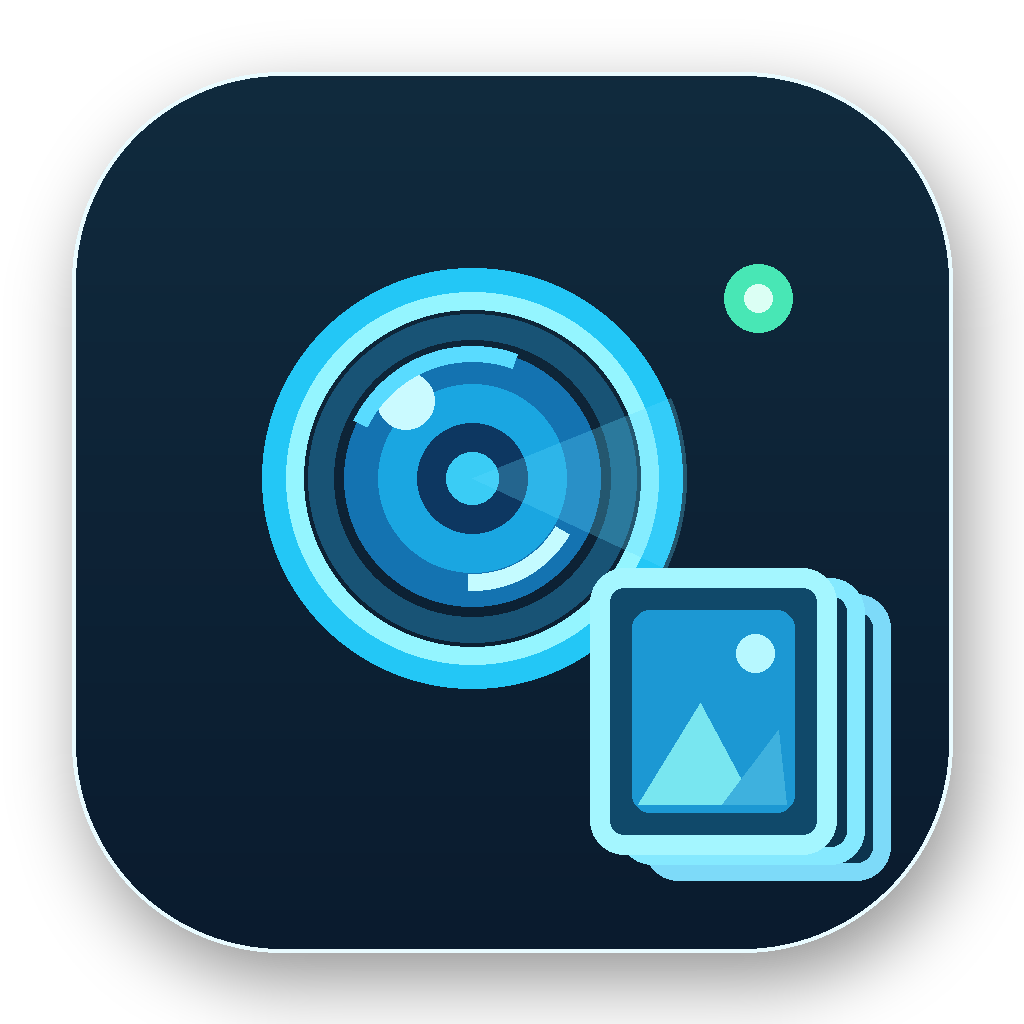
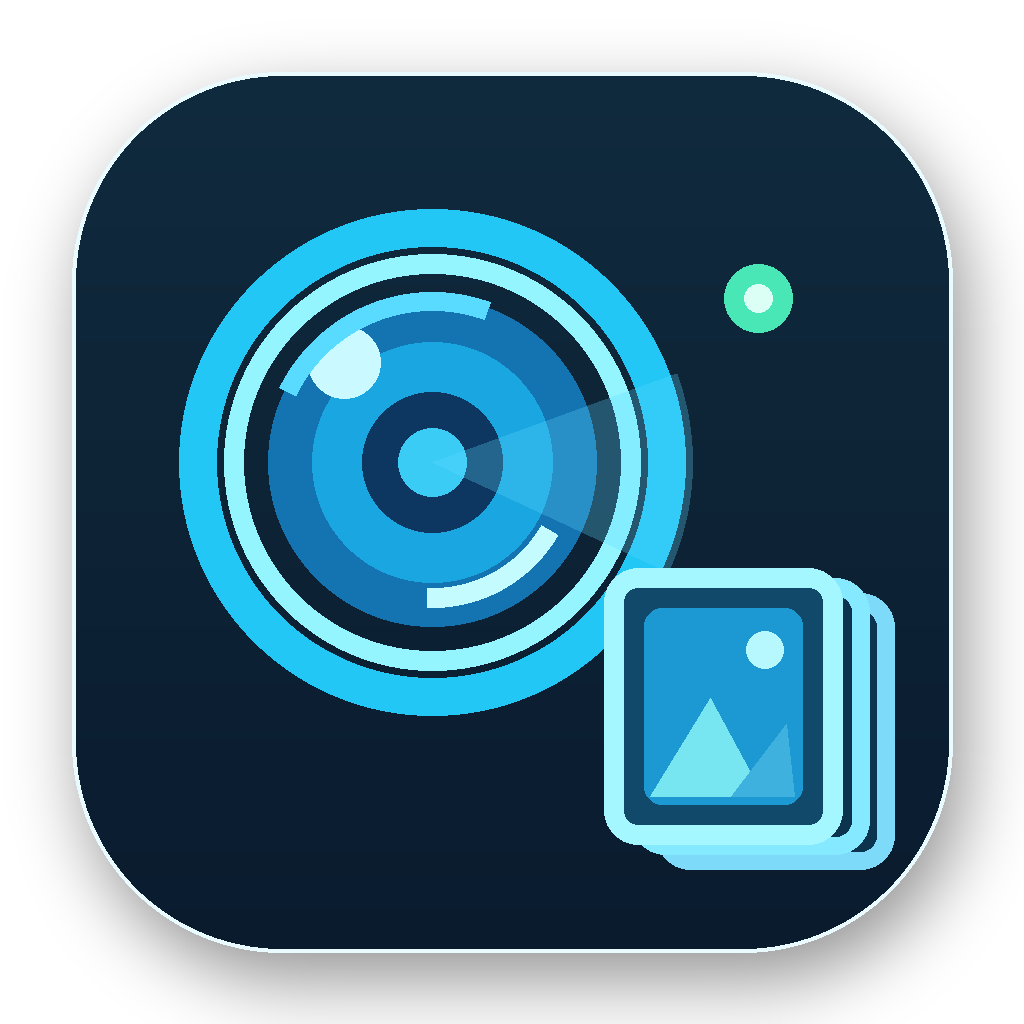
Refactor side pane views and update build workflow

Changed region(s): [[0.1562, 0.1875, 0.875, 0.875]]

diff --git a/main.py b/main.py
@@ -188,10 +188,15 @@ class App(ctk.CTk):
         self.stop_requested = False
         self.toaster = ToastNotifier() if ToastNotifier is not None else None
         self.logs_visible = True
+        self.side_pane_visible = True
+        self.active_side_view = "logs"
         self.last_check_text = tk.StringVar(value="Last check: Never")
         self.new_images_text = tk.StringVar(value="New images: 0")
         self.status_text = tk.StringVar(value="Status: Idle")
         self.save_location_text = tk.StringVar(value=f"Save folder: {self._display_download_dir()}")
+        self.settings_path_var = tk.StringVar(value=self._display_download_dir())
+        self.settings_notifications_var = tk.BooleanVar(value=self.state_manager.get_setting("notifications_enabled") is not False)
+        self.settings_feedback_text = tk.StringVar(value="")
 
         self._setup_layout()
         
@@ -237,14 +242,21 @@ class App(ctk.CTk):
         self.keywords_view = KeywordsFrame(self.main_container, self.state_manager, self.check_single_keyword, self.stop_check)
         self.keywords_view.grid(row=0, column=0, sticky="nsew")
 
-        self.log_frame = ctk.CTkFrame(self.main_container, width=300, corner_radius=0)
-        self.log_frame.grid(row=0, column=1, sticky="nsew")
-        self.log_frame.grid_columnconfigure(0, weight=1)
-        self.log_frame.grid_rowconfigure(1, weight=1)
+        self.side_pane = ctk.CTkFrame(self.main_container, width=320, corner_radius=0)
+        self.side_pane.grid(row=0, column=1, sticky="nsew")
+        self.side_pane.grid_columnconfigure(0, weight=1)
+        self.side_pane.grid_rowconfigure(0, weight=1)
         
-        ctk.CTkLabel(self.log_frame, text="Application Logs", anchor="w", font=("Arial", 10, "bold")).grid(row=0, column=0, sticky="w", padx=5, pady=(10, 2))
-        self.log_textbox = ctk.CTkTextbox(self.log_frame, font=("Consolas", 10), width=280)
-        self.log_textbox.grid(row=1, column=0, sticky="nsew", padx=5, pady=5)
+        self.log_view = ctk.CTkFrame(self.side_pane, corner_radius=0)
+        self.log_view.grid_columnconfigure(0, weight=1)
+        self.log_view.grid_rowconfigure(1, weight=1)
+        ctk.CTkLabel(self.log_view, text="Application Logs", anchor="w", font=("Arial", 10, "bold")).grid(row=0, column=0, sticky="w", padx=10, pady=(10, 2))
+        self.log_textbox = ctk.CTkTextbox(self.log_view, font=("Consolas", 10), width=300)
+        self.log_textbox.grid(row=1, column=0, sticky="nsew", padx=10, pady=5)
+
+        self.settings_view = self._build_settings_view(self.side_pane)
+        self.about_view = self._build_about_view(self.side_pane)
+        self._show_side_view("logs")
 
         self.status_bar = ctk.CTkFrame(self, corner_radius=0)
         self.status_bar.grid(row=2, column=0, sticky="ew")
@@ -433,99 +445,117 @@ class App(ctk.CTk):
         except Exception:
             return None
 
+    def _build_settings_view(self, parent):
+        frame = ctk.CTkFrame(parent, corner_radius=0)
+        frame.grid_columnconfigure(0, weight=1)
+
+        ctk.CTkLabel(frame, text="Settings", font=("Arial", 18, "bold")).grid(row=0, column=0, padx=16, pady=(18, 10), sticky="w")
+        ctk.CTkLabel(frame, text="Download location", anchor="w").grid(row=1, column=0, padx=16, pady=(8, 4), sticky="w")
+
+        path_entry = ctk.CTkEntry(frame, textvariable=self.settings_path_var)
+        path_entry.grid(row=2, column=0, padx=16, pady=(0, 8), sticky="ew")
+
+        path_buttons = ctk.CTkFrame(frame, fg_color="transparent")
+        path_buttons.grid(row=3, column=0, padx=16, pady=(0, 12), sticky="ew")
+        path_buttons.grid_columnconfigure((0, 1), weight=1)
+        ctk.CTkButton(path_buttons, text="Browse...", command=self.browse_download_folder).grid(row=0, column=0, padx=(0, 6), sticky="ew")
+        ctk.CTkButton(path_buttons, text="Open Folder", command=lambda: self.open_download_folder(self.settings_path_var.get())).grid(row=0, column=1, padx=(6, 0), sticky="ew")
+
+        ctk.CTkCheckBox(
+            frame,
+            text="Show system notifications",
+            variable=self.settings_notifications_var,
+        ).grid(row=4, column=0, padx=16, pady=(4, 12), sticky="w")
+
+        ctk.CTkLabel(frame, textvariable=self.settings_feedback_text, anchor="w", text_color="gray", wraplength=280).grid(row=5, column=0, padx=16, pady=(0, 12), sticky="ew")
+
+        action_buttons = ctk.CTkFrame(frame, fg_color="transparent")
+        action_buttons.grid(row=6, column=0, padx=16, pady=(4, 18), sticky="ew")
+        action_buttons.grid_columnconfigure((0, 1), weight=1)
+        ctk.CTkButton(action_buttons, text="Reset", command=self.reset_settings_defaults).grid(row=0, column=0, padx=(0, 6), sticky="ew")
+        ctk.CTkButton(action_buttons, text="Save", command=self.save_settings).grid(row=0, column=1, padx=(6, 0), sticky="ew")
+
+        return frame
+
+    def _build_about_view(self, parent):
+        frame = ctk.CTkFrame(parent, corner_radius=0)
+        frame.grid_columnconfigure(0, weight=1)
+
+        ctk.CTkLabel(frame, text="About", font=("Arial", 18, "bold")).grid(row=0, column=0, padx=16, pady=(18, 12), sticky="w")
+        ctk.CTkLabel(frame, text=APP_NAME, font=("Arial", 16, "bold")).grid(row=1, column=0, padx=16, pady=(4, 2), sticky="w")
+        ctk.CTkLabel(frame, text=f"Version {APP_VERSION}", text_color="gray").grid(row=2, column=0, padx=16, pady=(0, 12), sticky="w")
+        ctk.CTkLabel(frame, text=APP_DESCRIPTION, wraplength=280, justify="left").grid(row=3, column=0, padx=16, pady=4, sticky="w")
+        ctk.CTkLabel(frame, text="License: MIT", text_color="gray").grid(row=4, column=0, padx=16, pady=(14, 4), sticky="w")
+        ctk.CTkLabel(frame, text=f"Python {sys.version.split()[0]}", text_color="gray").grid(row=5, column=0, padx=16, pady=4, sticky="w")
+
+        return frame
+
+    def _show_side_view(self, view_name):
+        for view in (self.log_view, self.settings_view, self.about_view):
+            view.grid_remove()
+
+        views = {
+            "logs": self.log_view,
+            "settings": self.settings_view,
+            "about": self.about_view,
+        }
+        views[view_name].grid(row=0, column=0, sticky="nsew")
+        self.active_side_view = view_name
+        self.side_pane.grid()
+        self.main_container.grid_columnconfigure(1, weight=1)
+        self.side_pane_visible = True
+        self.logs_visible = view_name == "logs"
+        self.toolbar_logs_btn.configure(text="Hide Logs" if view_name == "logs" else "Show Logs")
+
+    def browse_download_folder(self):
+        chosen = filedialog.askdirectory(
+            parent=self,
+            initialdir=self._absolute_download_dir(self.settings_path_var.get()),
+        )
+        if chosen:
+            self.settings_path_var.set(chosen)
+            self.settings_feedback_text.set("")
+
+    def reset_settings_defaults(self):
+        self.settings_path_var.set(DEFAULT_DOWNLOAD_DIR)
+        self.settings_feedback_text.set("Default download folder selected.")
+
+    def save_settings(self):
+        selected = self.settings_path_var.get().strip() or DEFAULT_DOWNLOAD_DIR
+        try:
+            os.makedirs(self._absolute_download_dir(selected), exist_ok=True)
+        except Exception as e:
+            self.settings_feedback_text.set(f"Could not use this folder: {e}")
+            return
+
+        self.state_manager.set_setting("download_dir", selected)
+        self.state_manager.set_setting("notifications_enabled", bool(self.settings_notifications_var.get()))
+        self._refresh_save_location()
+        self.settings_feedback_text.set("Settings saved.")
+
     def toggle_logs(self):
-        if self.logs_visible:
-            self.log_frame.grid_remove()
+        if self.side_pane_visible and self.active_side_view == "logs":
+            self.side_pane.grid_remove()
             self.main_container.grid_columnconfigure(1, weight=0)
             self.toolbar_logs_btn.configure(text="Show Logs")
+            self.side_pane_visible = False
             self.logs_visible = False
         else:
-            self.log_frame.grid()
+            self._show_side_view("logs")
+            self.side_pane.grid()
             self.main_container.grid_columnconfigure(1, weight=1)
             self.toolbar_logs_btn.configure(text="Hide Logs")
+            self.side_pane_visible = True
             self.logs_visible = True
 
     def show_settings(self):
-        dialog = ctk.CTkToplevel(self)
-        dialog.title("Settings")
-        dialog.geometry("620x270")
-        dialog.transient(self)
-        dialog.grab_set()
-        dialog.grid_columnconfigure(0, weight=1)
-
-        ctk.CTkLabel(dialog, text="Settings", font=("Arial", 18, "bold")).grid(row=0, column=0, columnspan=3, padx=20, pady=(20, 10), sticky="w")
-        ctk.CTkLabel(dialog, text="Download location", anchor="w").grid(row=1, column=0, columnspan=3, padx=20, pady=(5, 4), sticky="w")
-
-        path_var = tk.StringVar(value=self.state_manager.get_setting("download_dir") or DEFAULT_DOWNLOAD_DIR)
-        notifications_var = tk.BooleanVar(value=self.state_manager.get_setting("notifications_enabled") is not False)
-        path_entry = ctk.CTkEntry(dialog, textvariable=path_var)
-        path_entry.grid(row=2, column=0, padx=(20, 8), pady=4, sticky="ew")
-
-        def browse():
-            chosen = filedialog.askdirectory(parent=dialog, initialdir=self._absolute_download_dir(path_var.get()))
-            if chosen:
-                path_var.set(chosen)
-
-        ctk.CTkButton(dialog, text="Browse...", width=90, command=browse).grid(row=2, column=1, padx=(0, 8), pady=4)
-        ctk.CTkButton(dialog, text="Open Folder", width=110, command=lambda: self.open_download_folder(path_var.get())).grid(row=2, column=2, padx=(0, 20), pady=4)
-
-        feedback = ctk.CTkLabel(dialog, text="", anchor="w", text_color="gray")
-        feedback.grid(row=3, column=0, columnspan=3, padx=20, pady=(4, 10), sticky="w")
-
-        notifications_checkbox = ctk.CTkCheckBox(
-            dialog,
-            text="Show system notifications when new images are found",
-            variable=notifications_var,
-        )
-        notifications_checkbox.grid(row=4, column=0, columnspan=3, padx=20, pady=(4, 10), sticky="w")
-
-        def reset_default():
-            path_var.set(DEFAULT_DOWNLOAD_DIR)
-            feedback.configure(text="Default download folder selected.")
-
-        def save():
-            selected = path_var.get().strip() or DEFAULT_DOWNLOAD_DIR
-            try:
-                os.makedirs(self._absolute_download_dir(selected), exist_ok=True)
-            except Exception as e:
-                feedback.configure(text=f"Could not use this folder: {e}", text_color="red")
-                return
-
-            self.state_manager.set_setting("download_dir", selected)
-            self.state_manager.set_setting("notifications_enabled", bool(notifications_var.get()))
-            self._refresh_save_location()
-            feedback.configure(text="Settings saved.", text_color="green")
-
-        ctk.CTkButton(dialog, text="Reset to Default", width=130, command=reset_default).grid(row=5, column=0, padx=20, pady=(10, 20), sticky="w")
-        ctk.CTkButton(dialog, text="Save", width=90, command=save).grid(row=5, column=1, padx=(0, 8), pady=(10, 20), sticky="e")
-        ctk.CTkButton(dialog, text="Close", width=90, command=dialog.destroy).grid(row=5, column=2, padx=(0, 20), pady=(10, 20), sticky="e")
+        self.settings_path_var.set(self.state_manager.get_setting("download_dir") or DEFAULT_DOWNLOAD_DIR)
+        self.settings_notifications_var.set(self.state_manager.get_setting("notifications_enabled") is not False)
+        self.settings_feedback_text.set("")
+        self._show_side_view("settings")
 
     def show_about(self):
-        dialog = ctk.CTkToplevel(self)
-        dialog.title("About")
-        dialog.geometry("460x300")
-        dialog.transient(self)
-        dialog.grab_set()
-        dialog.grid_columnconfigure(0, weight=1)
-
-        ctk.CTkLabel(dialog, text=APP_NAME, font=("Arial", 20, "bold")).grid(row=0, column=0, padx=24, pady=(24, 4), sticky="w")
-        ctk.CTkLabel(dialog, text=f"Version {APP_VERSION}", text_color="gray").grid(row=1, column=0, padx=24, pady=(0, 12), sticky="w")
-        ctk.CTkLabel(dialog, text=APP_DESCRIPTION, wraplength=400, justify="left").grid(row=2, column=0, padx=24, pady=4, sticky="w")
-        ctk.CTkLabel(dialog, text="License: MIT", text_color="gray").grid(row=3, column=0, padx=24, pady=(12, 4), sticky="w")
-        ctk.CTkLabel(dialog, text=f"Python {sys.version.split()[0]}", text_color="gray").grid(row=4, column=0, padx=24, pady=4, sticky="w")
-
-        button_frame = ctk.CTkFrame(dialog, fg_color="transparent")
-        button_frame.grid(row=5, column=0, padx=24, pady=(20, 24), sticky="ew")
-        button_frame.grid_columnconfigure(0, weight=1)
-        ctk.CTkButton(button_frame, text="Open README", command=self.open_readme).grid(row=0, column=0, sticky="w")
-        ctk.CTkButton(button_frame, text="Close", width=90, command=dialog.destroy).grid(row=0, column=1, sticky="e")
-
-    def open_readme(self):
-        readme_path = os.path.abspath(os.path.join(os.path.dirname(__file__), "README.md"))
-        if os.path.exists(readme_path):
-            webbrowser.open(readme_path)
-        else:
-            messagebox.showinfo(APP_NAME, "README.md was not found.")
+        self._show_side_view("about")
 
     def open_download_folder(self, path=None):
         target = self._absolute_download_dir(path or self.state_manager.get_setting("download_dir") or DEFAULT_DOWNLOAD_DIR)